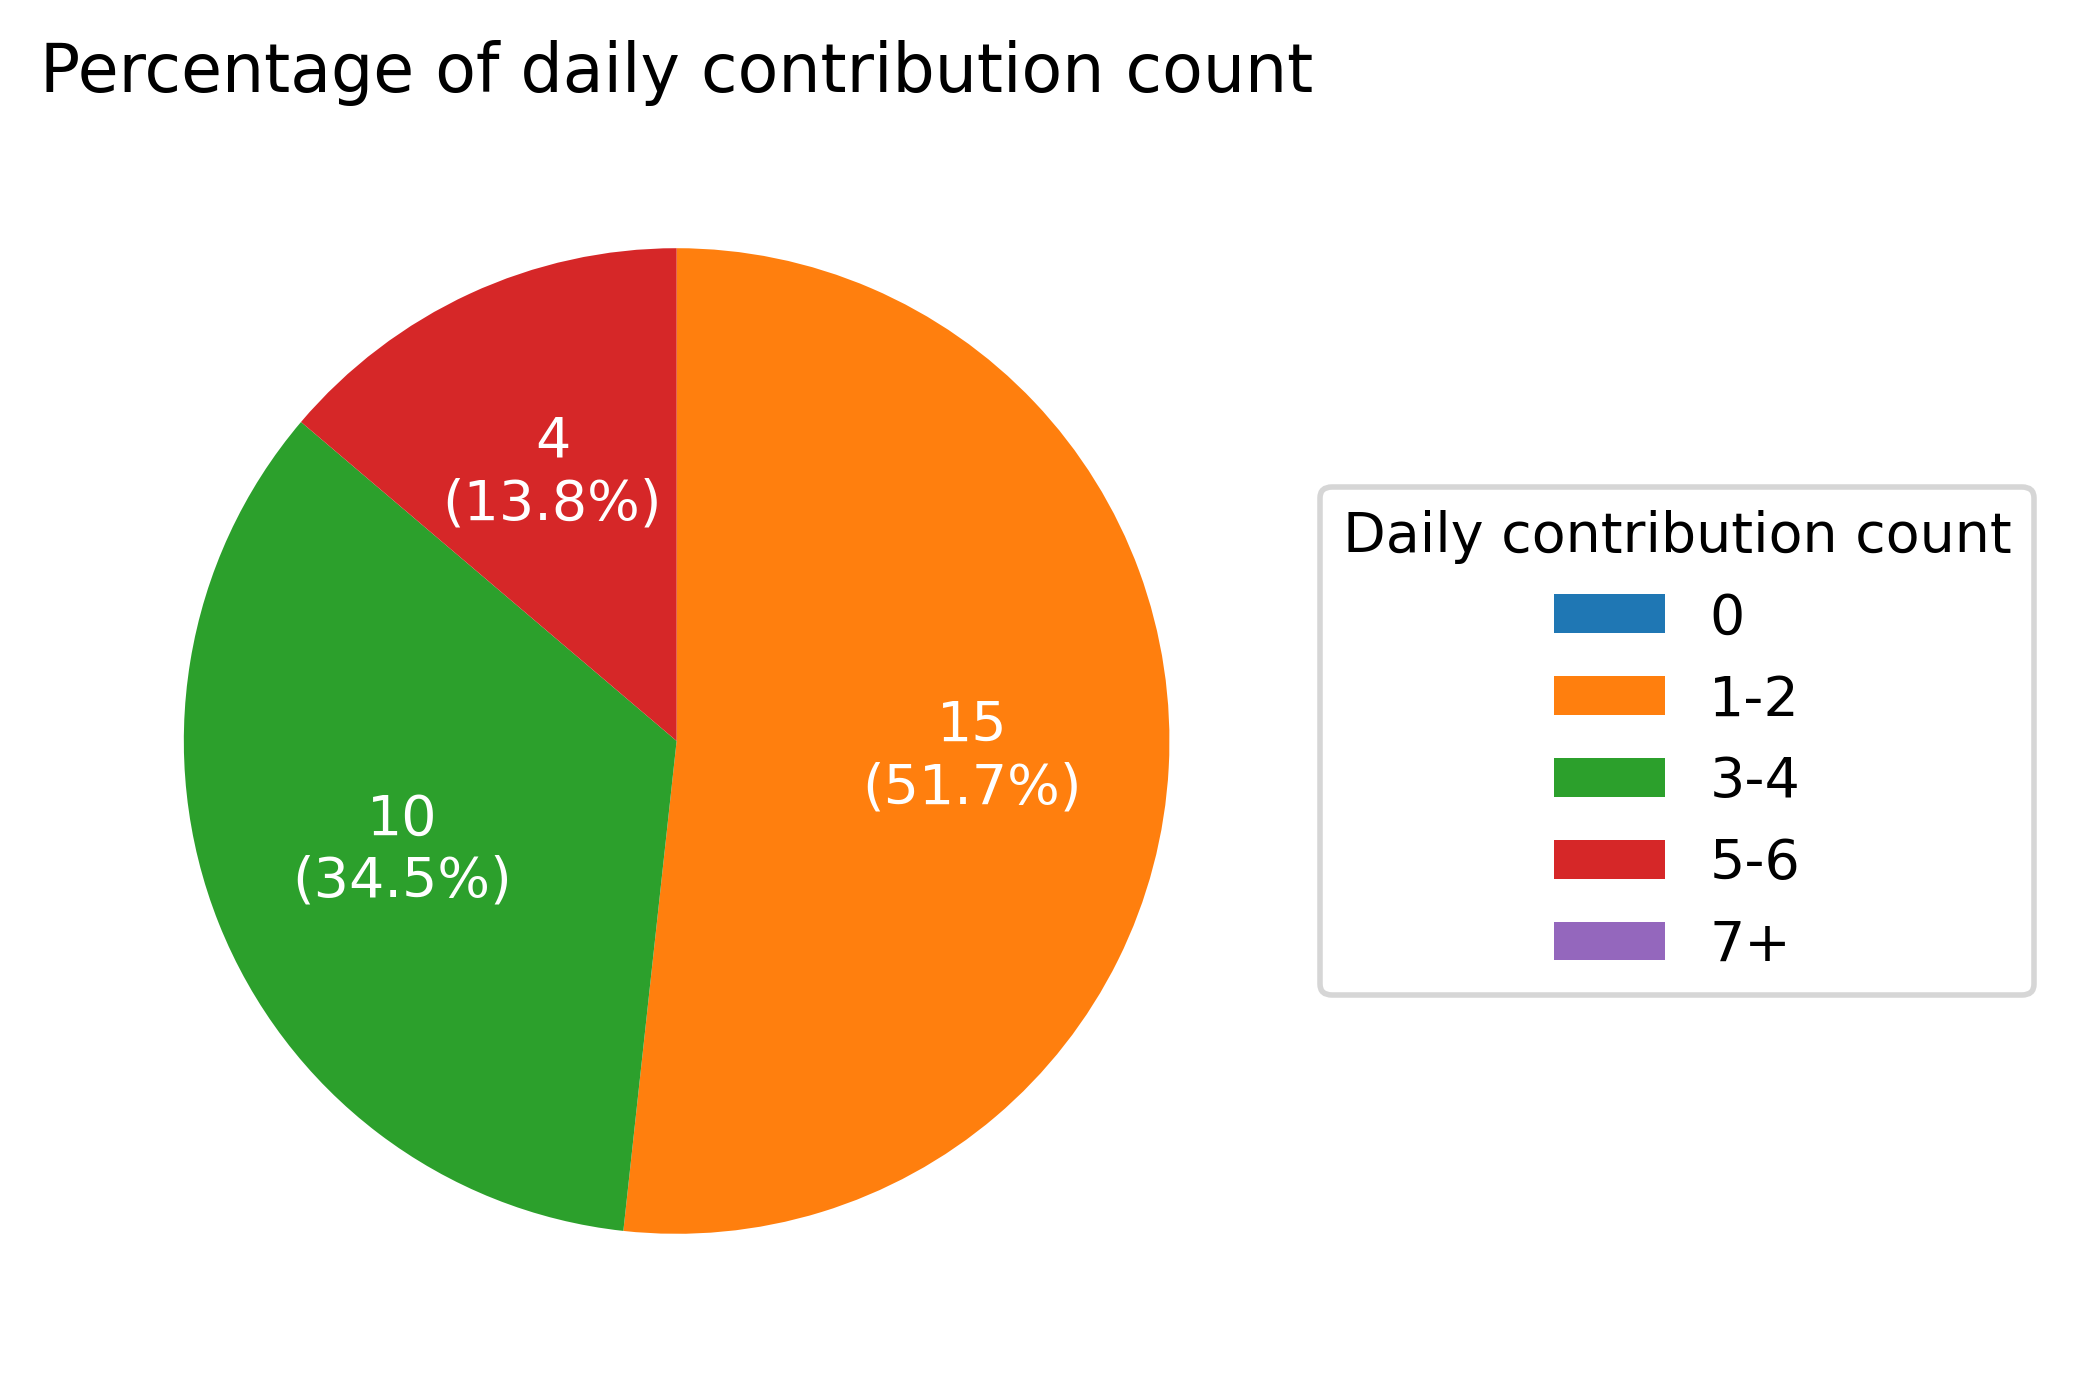
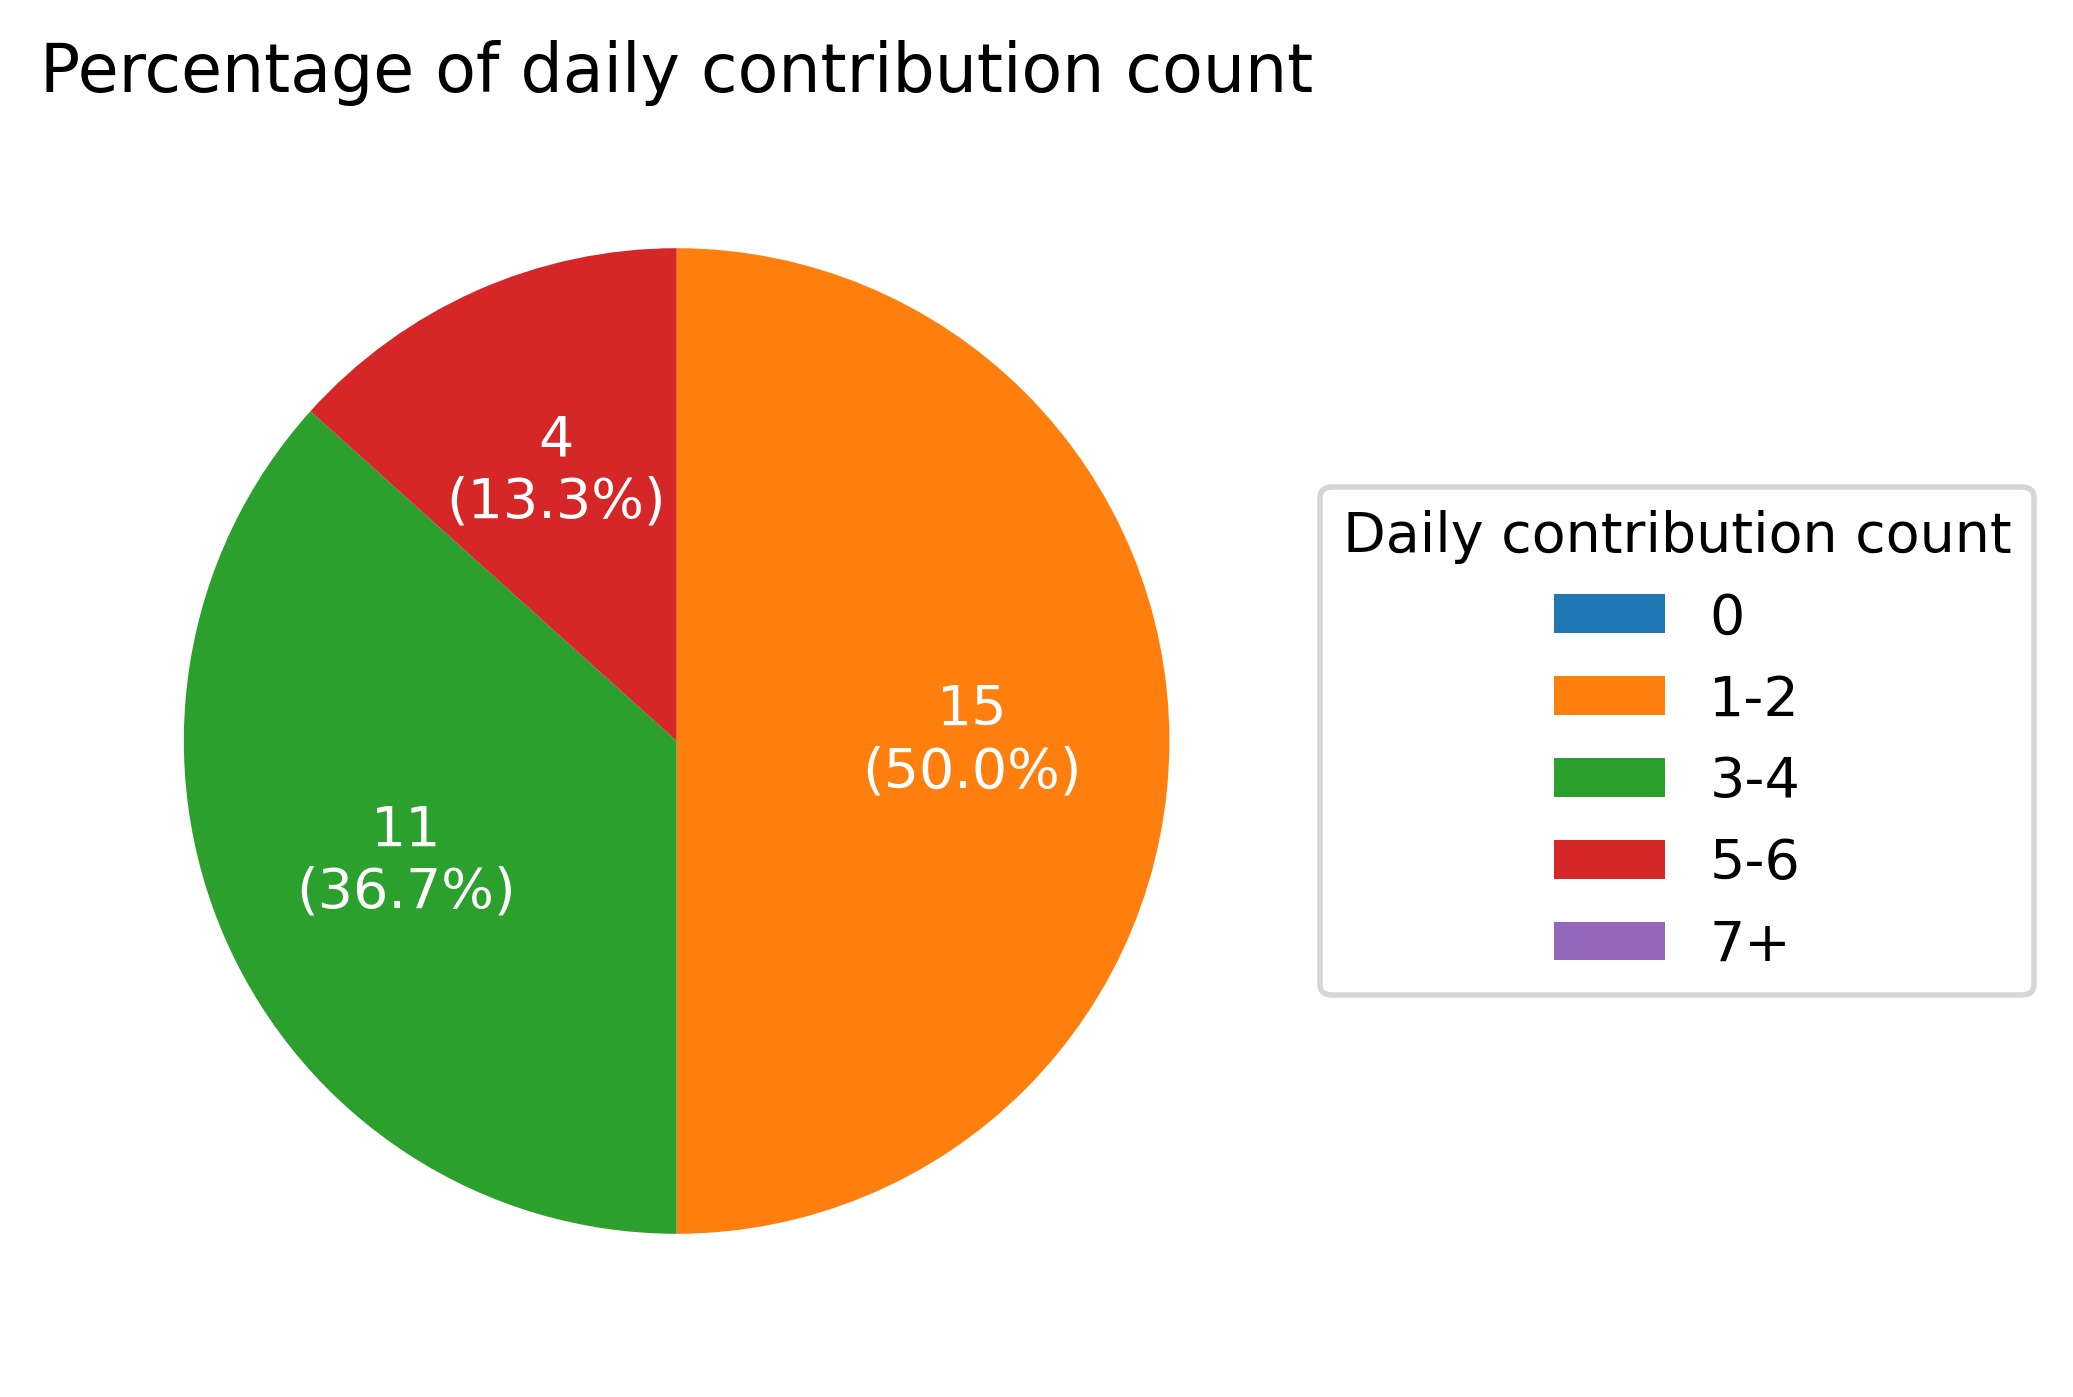
BOT: 2020-07-30 contribution check result

diff --git a/result/README.md b/result/README.md
@@ -6,15 +6,15 @@ I hope this report will be a companion for your contribution trip :airplane:
 
 
 ## Summary
-- **2020-07-29** is **29th day** since the start of trip :sweat_smile:
-- During the trip, total contribution count is **74** 
-and average contribution count is **2.55**
+- **2020-07-30** is **30th day** since the start of trip :sweat_smile:
+- During the trip, total contribution count is **77** 
+and average contribution count is **2.57**
 - Daily maximum contribution day is **2020-07-16**, which is **5**.
-- Longest continous contribution trip was **29** days 
-From **2020-07-01** to **2020-07-29** :walking:
-- Current continous contribution trip is **29** days 
+- Longest continous contribution trip was **30** days 
+From **2020-07-01** to **2020-07-30** :walking:
+- Current continous contribution trip is **30** days 
 From **2020-07-01** :running:
-- There was **4** new contribution at **2020-07-29**.
+- There was **3** new contribution at **2020-07-30**.
 Good job :+1:
 
 ## Graph
@@ -27,6 +27,6 @@ Good job :+1:
 | Week 28 of 2020 |  3  |  2  |  1  |  1  |  1  |  1  |  1  |
 | Week 29 of 2020 |  3  |  3  |  2  |  5  |  3  |  1  |  2  |
 | Week 30 of 2020 |  4  |  5  |  3  |  4  |  3  |  2  |  1  |
-| Week 31 of 2020 |  5  |  5  |  4  |     |     |     |     |
+| Week 31 of 2020 |  5  |  5  |  4  |  3  |     |     |     |
 
         
